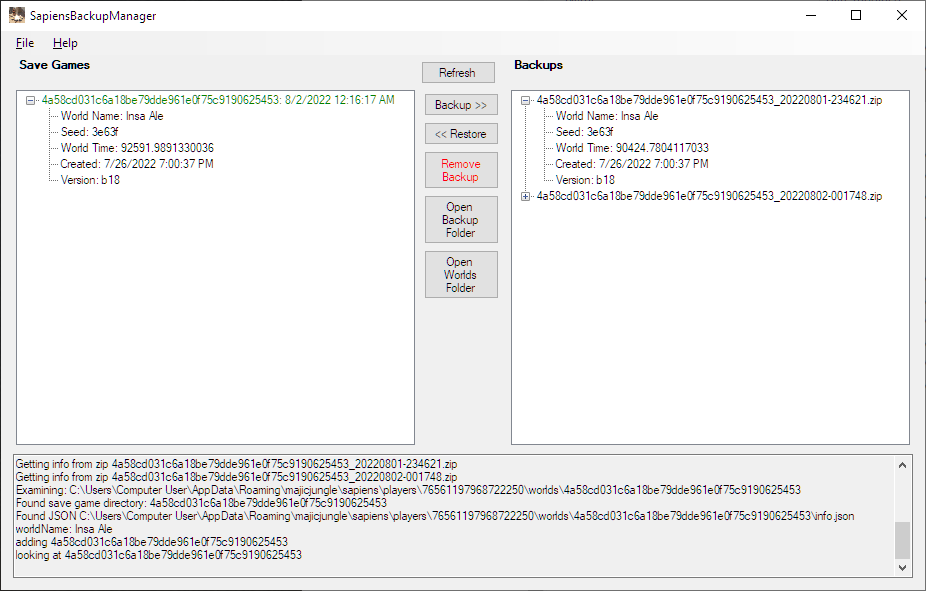
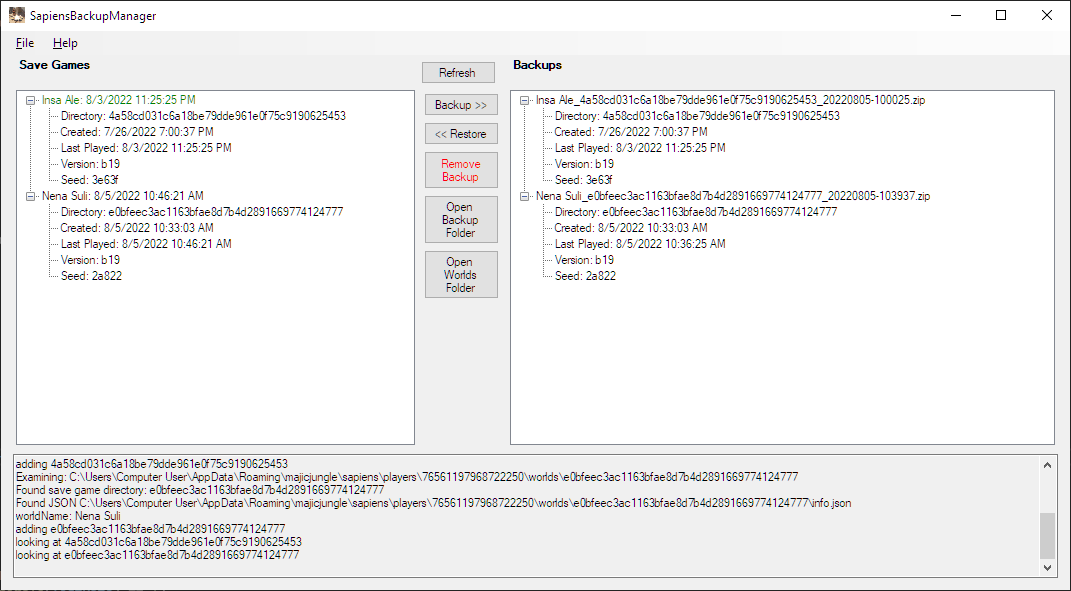
ready for testing

diff --git a/SapiensBackupManager/frmMain.cs b/SapiensBackupManager/frmMain.cs
@@ -162,18 +162,17 @@ namespace SapiensBackupManager
             for (int i = 0; i < mySaveGames.Count; i++)
             {
                 DebugLog("looking at " + mySaveGames[i].directoryName);
-                TreeNode newParentNode = treeViewSavegames.Nodes.Add(String.Format("{0}: {1}", mySaveGames[i].directoryName, LocalDateTimeFromUnix(mySaveGames[i].lastPlayedTime)));
-                TreeNode newChildNode = newParentNode.Nodes.Add(String.Format("World Name: {0}", mySaveGames[i].worldName));
-                unselectableSaveNodes.Add(newChildNode);
-                newChildNode = newParentNode.Nodes.Add(String.Format("Seed: {0}", mySaveGames[i].seed));
-                unselectableSaveNodes.Add(newChildNode);
-                newChildNode = newParentNode.Nodes.Add(String.Format("World Time: {0}", mySaveGames[i].worldTime));
+                TreeNode newParentNode = treeViewSavegames.Nodes.Add(String.Format("{0}: {1}", mySaveGames[i].worldName, LocalDateTimeFromUnix(mySaveGames[i].lastPlayedTime)));
+                TreeNode newChildNode = newParentNode.Nodes.Add(String.Format("Directory: {0}", mySaveGames[i].directoryName));
                 unselectableSaveNodes.Add(newChildNode);
                 newChildNode = newParentNode.Nodes.Add(String.Format("Created: {0}", LocalDateTimeFromUnix(mySaveGames[i].creationTime)));
                 unselectableSaveNodes.Add(newChildNode);
+                newChildNode = newParentNode.Nodes.Add(String.Format("Last Played: {0}", LocalDateTimeFromUnix(mySaveGames[i].lastPlayedTime)));
+                unselectableSaveNodes.Add(newChildNode);
                 newChildNode = newParentNode.Nodes.Add(String.Format("Version: {0}", mySaveGames[i].lastPlayedVersion));
                 unselectableSaveNodes.Add(newChildNode);
-
+                newChildNode = newParentNode.Nodes.Add(String.Format("Seed: {0}", mySaveGames[i].seed));
+                unselectableSaveNodes.Add(newChildNode);
                 DateTime latest = GetLatestZipDate(mySaveGames[i].directoryName);
                 //DebugLog("latest: " + latest.ToString());
                 if(latest.CompareTo(LocalDateTimeFromUnix(mySaveGames[i].lastPlayedTime)) >= 0)
@@ -194,13 +193,14 @@ namespace SapiensBackupManager
             }
             string[] backupFiles = Directory.GetFiles(backupFolder);
             backupSaveGames = new List<SapiensSaveGame>();
-            Regex r = new Regex(@"^[a-f0-9]+_[0-9]{8}-[0-9]{6}.zip$");
+            Regex r = new Regex(@"^[\w\s]+_([a-f0-9]+)_[0-9]{8}-[0-9]{6}.zip$");
             Match m;
             foreach (string backupFile in backupFiles)
             {
                 if (File.Exists(backupFile))
                 {
                     string fileName = new FileInfo(backupFile).Name;
+                    DebugLog("Checking file " + backupFile);
                     m = r.Match(fileName);
                     if (m.Success && m.Groups[1].Value != null)
                     {
@@ -215,8 +215,8 @@ namespace SapiensBackupManager
                                     SapiensSaveGame save = new SapiensSaveGame();
                                     SapienInfo source = new SapienInfo();
                                     source = JsonSerializer.Deserialize<SapienInfo>(s);
-                                    save.directoryName = m.Groups[1].Value;
                                     save.backupName = fileName;
+                                    save.directoryName = m.Groups[1].Value;
                                     save.worldName = source.value0.worldName;
                                     save.seed = source.value0.seed;
                                     save.worldTime = source.value0.worldTime;
@@ -231,22 +231,22 @@ namespace SapiensBackupManager
                     }
                 }
             }
-            backupSaveGames = backupSaveGames.OrderBy(sel => sel.directoryName, new OrdinalStringComparer()).ToList();
+            backupSaveGames = backupSaveGames.OrderBy(sel => sel.backupName, new OrdinalStringComparer()).ToList();
             treeViewBackups.BeginUpdate();
             treeViewBackups.Nodes.Clear();
             unselectableBackupNodes.Clear();
             for (int i = 0; i < backupSaveGames.Count; i++)
             {
-                TreeNode newParentNode = treeViewBackups.Nodes.Add(backupSaveGames[i].backupName);
-                TreeNode newChildNode = newParentNode.Nodes.Add(String.Format("World Name: {0}", backupSaveGames[i].worldName));
-                unselectableSaveNodes.Add(newChildNode);
-                newChildNode = newParentNode.Nodes.Add(String.Format("Seed: {0}", backupSaveGames[i].seed));
-                unselectableSaveNodes.Add(newChildNode);
-                newChildNode = newParentNode.Nodes.Add(String.Format("World Time: {0}", backupSaveGames[i].worldTime));
+                TreeNode newParentNode = treeViewBackups.Nodes.Add(String.Format("{0}", backupSaveGames[i].backupName));
+                TreeNode newChildNode = newParentNode.Nodes.Add(String.Format("Directory: {0}", backupSaveGames[i].directoryName));
                 unselectableSaveNodes.Add(newChildNode);
                 newChildNode = newParentNode.Nodes.Add(String.Format("Created: {0}", LocalDateTimeFromUnix(backupSaveGames[i].creationTime)));
                 unselectableSaveNodes.Add(newChildNode);
+                newChildNode = newParentNode.Nodes.Add(String.Format("Last Played: {0}", LocalDateTimeFromUnix(backupSaveGames[i].lastPlayedTime)));
+                unselectableSaveNodes.Add(newChildNode);
                 newChildNode = newParentNode.Nodes.Add(String.Format("Version: {0}", backupSaveGames[i].lastPlayedVersion));
+                unselectableSaveNodes.Add(newChildNode);
+                newChildNode = newParentNode.Nodes.Add(String.Format("Seed: {0}", backupSaveGames[i].seed));
                 unselectableSaveNodes.Add(newChildNode);
             }
             treeViewBackups.EndUpdate();
@@ -270,7 +270,7 @@ namespace SapiensBackupManager
             DateTime lastDate = DateTime.MinValue;
             for (int i = 0; i < backupSaveGames.Count; i++)
             {
-                Regex r = new Regex(@"^([a-f0-9]+)_([0-9]{8}-[0-9]{6}).zip$");
+                Regex r = new Regex(@"^[\w\s]+_([a-f0-9]+)_([0-9]{8}-[0-9]{6}).zip$");
                 Match m = r.Match(backupSaveGames[i].backupName);
                 if (m.Success)
                 {
@@ -321,11 +321,14 @@ namespace SapiensBackupManager
             if (treeViewSavegames.SelectedNode != null)
             {
 
-                string dirText = treeViewSavegames.SelectedNode.Text;
-                int i = dirText.IndexOf(':');
-                string dirName = dirText.Substring(0, i);
+                string worldText = treeViewSavegames.SelectedNode.Text;
+                int i = worldText.IndexOf(':');
+                string worldName = worldText.Substring(0, i);
+                string dirText = treeViewSavegames.SelectedNode.Nodes[0].Text;
+                i = dirText.IndexOf(':');
+                string directoryName = dirText.Substring(i+2, dirText.Length-i-2);
                 showUI(false);
-                SaveGame(dirName);
+                SaveGame(worldName, directoryName);
                 showUI(true);
                 RefreshLists();
             }
@@ -356,14 +359,14 @@ namespace SapiensBackupManager
             }
         }
 
-        private void SaveGame(string dirName)
+        private void SaveGame(string worldName, string directoryName)
         {
-            DebugLog("Saving game " + dirName);
-            string mySaveGameDir = saveGamePath + Path.DirectorySeparatorChar + dirName;
+            DebugLog("Saving game " + worldName + " " + directoryName);
+            string mySaveGameDir = saveGamePath + Path.DirectorySeparatorChar + directoryName;
             if (Directory.Exists(mySaveGameDir))
             {
                 string dateString = DateTime.Now.ToString(timestampString);
-                string zipFilePath = backupFolder + Path.DirectorySeparatorChar + dirName + "_" + dateString + ".zip";
+                string zipFilePath = backupFolder + Path.DirectorySeparatorChar + worldName + "_" + directoryName + "_" + dateString + ".zip";
                 DebugLog("zipping to " + zipFilePath);
                 ZipFolder(mySaveGameDir, zipFilePath);
                 GetBackupFiles();
@@ -462,7 +465,7 @@ namespace SapiensBackupManager
         {
             DebugLog("Restoring game " + backupName);
             string dirNameFull = new FileInfo(backupName).Name;
-            Regex r = new Regex(@"^([a-f0-9]+)_[0-9]{8}-[0-9]{6}.zip$");
+            Regex r = new Regex(@"^[\w\s]+_([a-f0-9]+)_[0-9]{8}-[0-9]{6}.zip$");
             Match m = r.Match(dirNameFull);
             DebugLog("dirNameFull " + dirNameFull);
             if (m.Success)
@@ -471,6 +474,7 @@ namespace SapiensBackupManager
                 {
                     string dirName = m.Groups[1].Value;
                     string mySaveGameDir = saveGamePath + Path.DirectorySeparatorChar + dirName;
+                    DebugLog("dirName " + dirName);
                     if (Directory.Exists(mySaveGameDir))
                     {
                         DebugLog(dirName + " already exists!");
@@ -506,6 +510,10 @@ namespace SapiensBackupManager
                     DebugLog("Unable to determine save game folder name from " + dirNameFull);
                 }
                 DebugLog("RestoreGame complete");
+            }
+            else
+            {
+                DebugLog("Unable to parse save game folder name from " + dirNameFull);
             }
         }
 

diff --git a/SapiensBackupManager/frmMain.Designer.cs b/SapiensBackupManager/frmMain.Designer.cs
@@ -46,8 +46,8 @@
             this.buttonRestore = new System.Windows.Forms.Button();
             this.buttonRemoveBackup = new System.Windows.Forms.Button();
             this.buttonOpenBackupLocation = new System.Windows.Forms.Button();
-            this.buttonRefresh = new System.Windows.Forms.Button();
             this.buttonOpenWorldsLocation = new System.Windows.Forms.Button();
+            this.buttonRefresh = new System.Windows.Forms.Button();
             this.menuStrip1.SuspendLayout();
             this.tableLayoutPanel1.SuspendLayout();
             this.flowLayoutPanel1.SuspendLayout();
@@ -60,7 +60,7 @@
             this.textBoxDebug.Name = "textBoxDebug";
             this.textBoxDebug.ReadOnly = true;
             this.textBoxDebug.ScrollBars = System.Windows.Forms.ScrollBars.Vertical;
-            this.textBoxDebug.Size = new System.Drawing.Size(900, 124);
+            this.textBoxDebug.Size = new System.Drawing.Size(1045, 124);
             this.textBoxDebug.TabIndex = 0;
             // 
             // menuStrip1
@@ -70,7 +70,7 @@
             this.helpToolStripMenuItem});
             this.menuStrip1.Location = new System.Drawing.Point(0, 0);
             this.menuStrip1.Name = "menuStrip1";
-            this.menuStrip1.Size = new System.Drawing.Size(924, 24);
+            this.menuStrip1.Size = new System.Drawing.Size(1069, 24);
             this.menuStrip1.TabIndex = 1;
             this.menuStrip1.Text = "menuStrip1";
             // 
@@ -122,9 +122,9 @@
             // 
             // treeViewBackups
             // 
-            this.treeViewBackups.Location = new System.Drawing.Point(498, 32);
+            this.treeViewBackups.Location = new System.Drawing.Point(497, 32);
             this.treeViewBackups.Name = "treeViewBackups";
-            this.treeViewBackups.Size = new System.Drawing.Size(399, 355);
+            this.treeViewBackups.Size = new System.Drawing.Size(545, 355);
             this.treeViewBackups.TabIndex = 0;
             this.treeViewBackups.BeforeSelect += new System.Windows.Forms.TreeViewCancelEventHandler(this.treeViewBackups_BeforeSelect);
             // 
@@ -142,7 +142,7 @@
             // 
             this.labelBackups.AutoSize = true;
             this.labelBackups.Font = new System.Drawing.Font("Microsoft Sans Serif", 8.25F, System.Drawing.FontStyle.Bold, System.Drawing.GraphicsUnit.Point, ((byte)(0)));
-            this.labelBackups.Location = new System.Drawing.Point(498, 0);
+            this.labelBackups.Location = new System.Drawing.Point(497, 0);
             this.labelBackups.Name = "labelBackups";
             this.labelBackups.Size = new System.Drawing.Size(56, 13);
             this.labelBackups.TabIndex = 2;
@@ -151,9 +151,9 @@
             // tableLayoutPanel1
             // 
             this.tableLayoutPanel1.ColumnCount = 3;
-            this.tableLayoutPanel1.ColumnStyles.Add(new System.Windows.Forms.ColumnStyle(System.Windows.Forms.SizeType.Percent, 45F));
-            this.tableLayoutPanel1.ColumnStyles.Add(new System.Windows.Forms.ColumnStyle(System.Windows.Forms.SizeType.Percent, 10F));
-            this.tableLayoutPanel1.ColumnStyles.Add(new System.Windows.Forms.ColumnStyle(System.Windows.Forms.SizeType.Percent, 45F));
+            this.tableLayoutPanel1.ColumnStyles.Add(new System.Windows.Forms.ColumnStyle(System.Windows.Forms.SizeType.Percent, 38.75598F));
+            this.tableLayoutPanel1.ColumnStyles.Add(new System.Windows.Forms.ColumnStyle(System.Windows.Forms.SizeType.Percent, 8.516747F));
+            this.tableLayoutPanel1.ColumnStyles.Add(new System.Windows.Forms.ColumnStyle(System.Windows.Forms.SizeType.Percent, 52.72727F));
             this.tableLayoutPanel1.Controls.Add(this.labelSaveGames, 0, 0);
             this.tableLayoutPanel1.Controls.Add(this.treeViewSavegames, 0, 1);
             this.tableLayoutPanel1.Controls.Add(this.labelBackups, 2, 0);
@@ -165,7 +165,7 @@
             this.tableLayoutPanel1.RowCount = 2;
             this.tableLayoutPanel1.RowStyles.Add(new System.Windows.Forms.RowStyle(System.Windows.Forms.SizeType.Percent, 7.692307F));
             this.tableLayoutPanel1.RowStyles.Add(new System.Windows.Forms.RowStyle(System.Windows.Forms.SizeType.Percent, 92.30769F));
-            this.tableLayoutPanel1.Size = new System.Drawing.Size(900, 390);
+            this.tableLayoutPanel1.Size = new System.Drawing.Size(1045, 390);
             this.tableLayoutPanel1.TabIndex = 3;
             // 
             // flowLayoutPanel1
@@ -177,7 +177,7 @@
             this.flowLayoutPanel1.Controls.Add(this.buttonOpenWorldsLocation);
             this.flowLayoutPanel1.Location = new System.Drawing.Point(408, 32);
             this.flowLayoutPanel1.Name = "flowLayoutPanel1";
-            this.flowLayoutPanel1.Size = new System.Drawing.Size(84, 355);
+            this.flowLayoutPanel1.Size = new System.Drawing.Size(83, 355);
             this.flowLayoutPanel1.TabIndex = 3;
             // 
             // buttonBackup
@@ -221,16 +221,6 @@
             this.buttonOpenBackupLocation.UseVisualStyleBackColor = true;
             this.buttonOpenBackupLocation.Click += new System.EventHandler(this.buttonOpenBackupLocation_Click);
             // 
-            // buttonRefresh
-            // 
-            this.buttonRefresh.Location = new System.Drawing.Point(408, 3);
-            this.buttonRefresh.Name = "buttonRefresh";
-            this.buttonRefresh.Size = new System.Drawing.Size(75, 23);
-            this.buttonRefresh.TabIndex = 4;
-            this.buttonRefresh.Text = "Refresh";
-            this.buttonRefresh.UseVisualStyleBackColor = true;
-            this.buttonRefresh.Click += new System.EventHandler(this.buttonRefresh_Click);
-            // 
             // buttonOpenWorldsLocation
             // 
             this.buttonOpenWorldsLocation.Location = new System.Drawing.Point(3, 160);
@@ -241,11 +231,21 @@
             this.buttonOpenWorldsLocation.UseVisualStyleBackColor = true;
             this.buttonOpenWorldsLocation.Click += new System.EventHandler(this.buttonOpenWorldsLocation_Click);
             // 
+            // buttonRefresh
+            // 
+            this.buttonRefresh.Location = new System.Drawing.Point(408, 3);
+            this.buttonRefresh.Name = "buttonRefresh";
+            this.buttonRefresh.Size = new System.Drawing.Size(75, 23);
+            this.buttonRefresh.TabIndex = 4;
+            this.buttonRefresh.Text = "Refresh";
+            this.buttonRefresh.UseVisualStyleBackColor = true;
+            this.buttonRefresh.Click += new System.EventHandler(this.buttonRefresh_Click);
+            // 
             // frmMain
             // 
             this.AutoScaleDimensions = new System.Drawing.SizeF(6F, 13F);
             this.AutoScaleMode = System.Windows.Forms.AutoScaleMode.Font;
-            this.ClientSize = new System.Drawing.Size(924, 559);
+            this.ClientSize = new System.Drawing.Size(1069, 559);
             this.Controls.Add(this.tableLayoutPanel1);
             this.Controls.Add(this.textBoxDebug);
             this.Controls.Add(this.menuStrip1);
